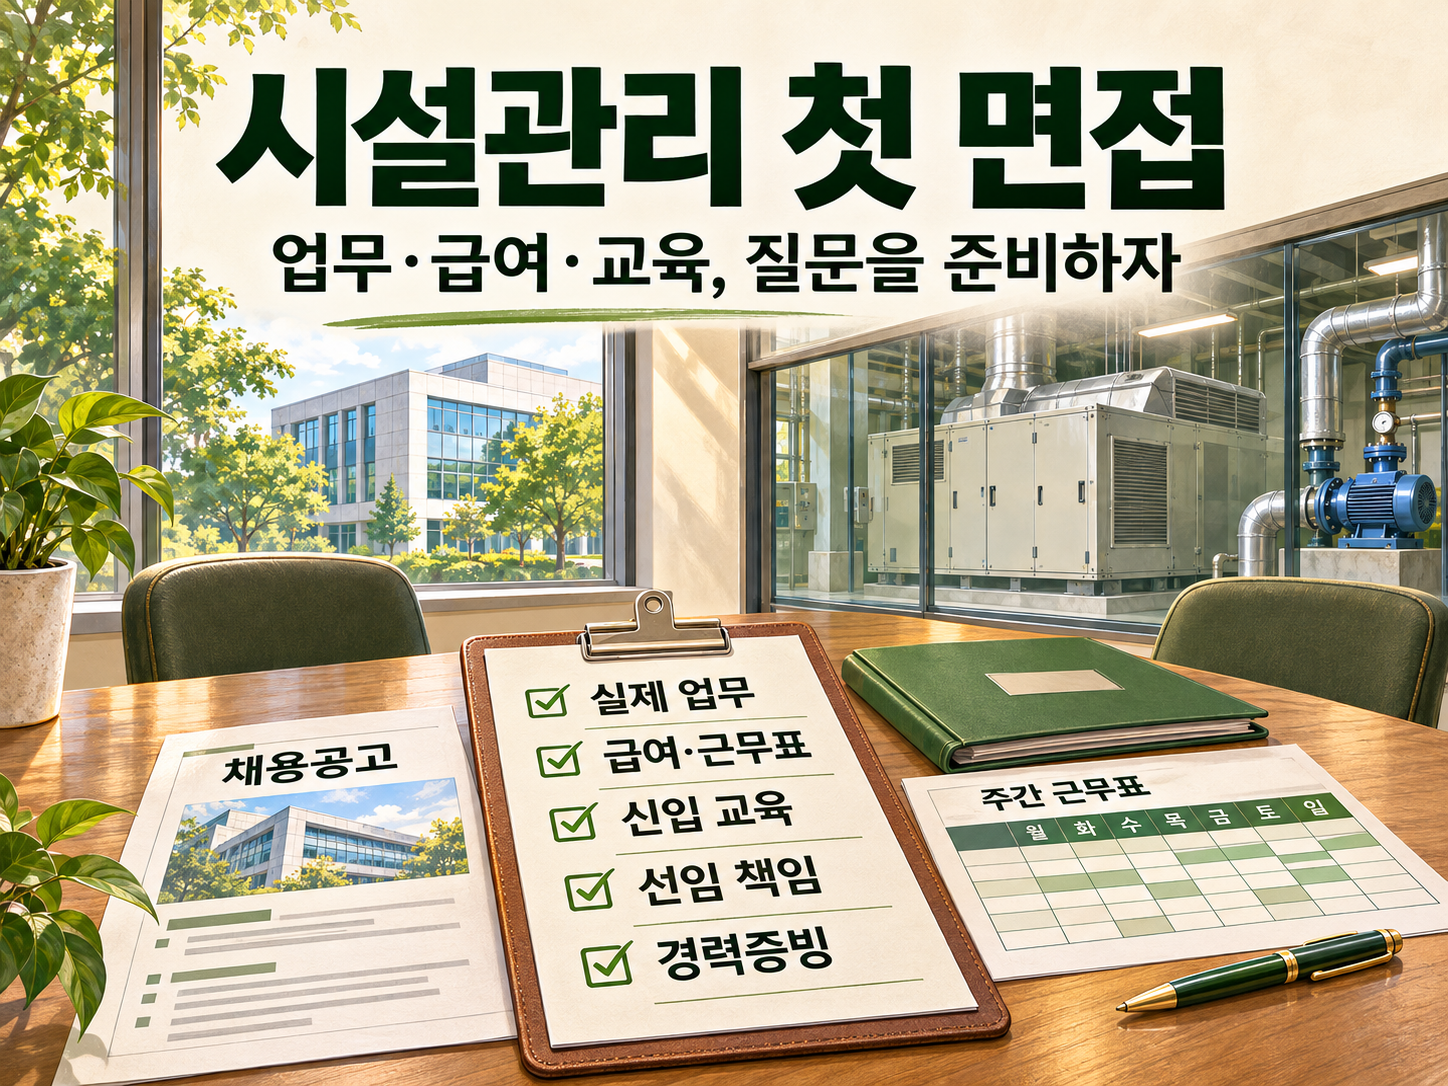
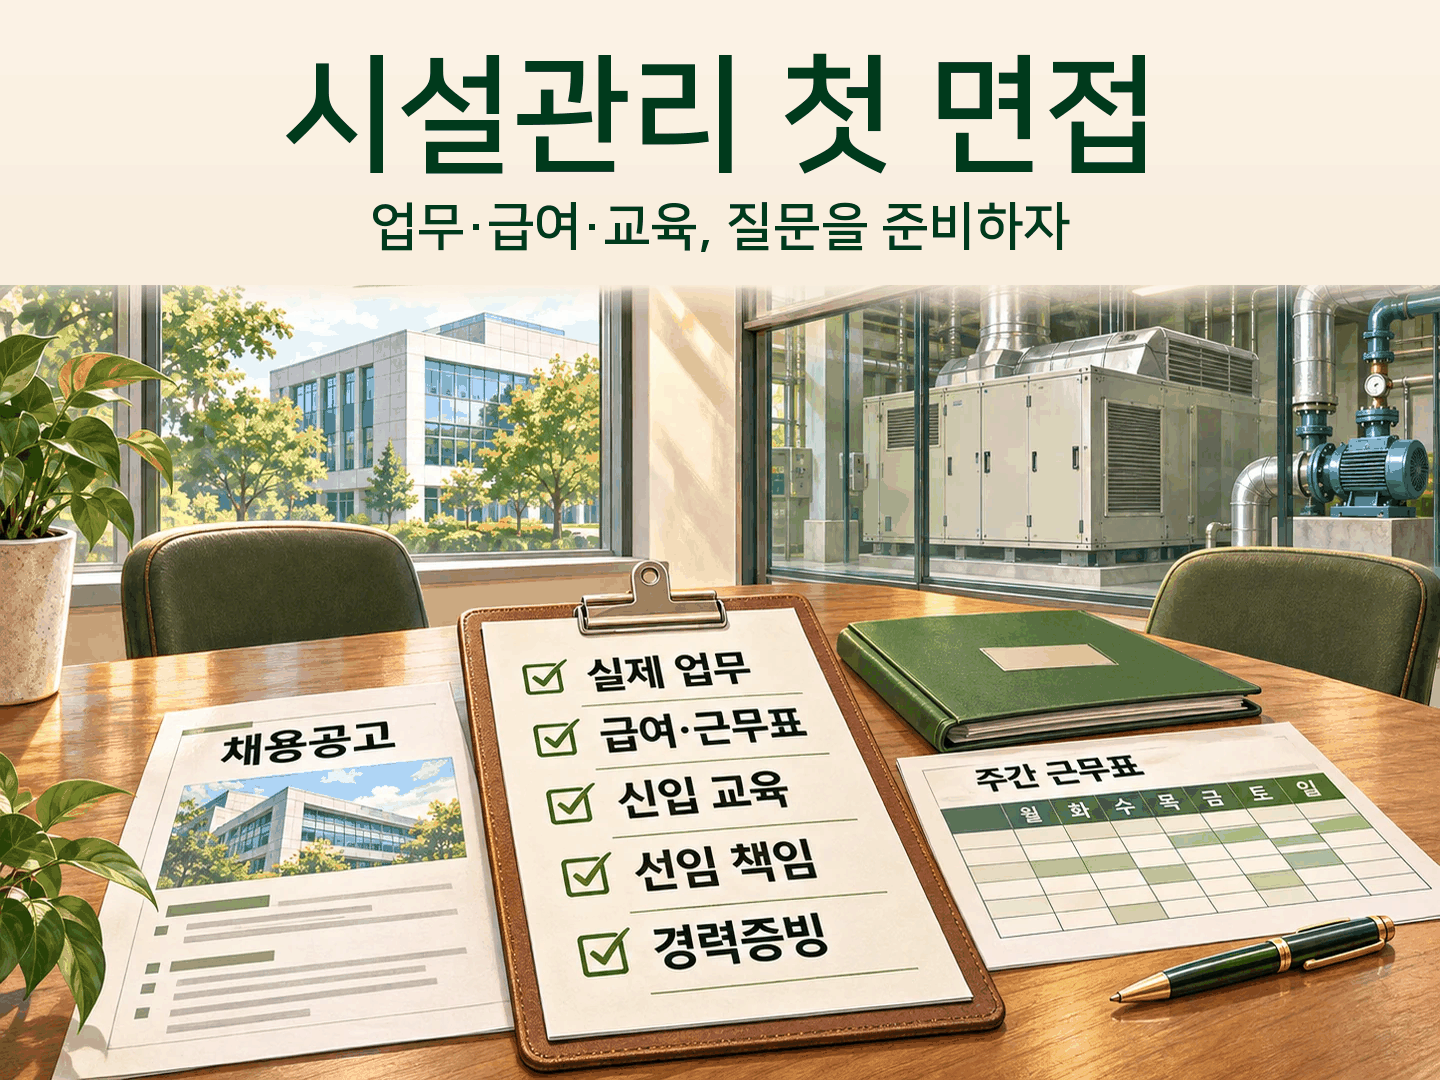
시설 대표 이미지 타이틀·부제 2차 통일 (#268)
* style(facility): normalize remaining hero title blocks

* fix(facility): keep public-sector hero in reviewed derivative inventory

diff --git a/docs/audits/2026-11-10-facility-hero-title-normalization-phase2/README.md b/docs/audits/2026-11-10-facility-hero-title-normalization-phase2/README.md
@@ -1,0 +1,44 @@
+# 시설 대표 이미지 타이틀·부제 정렬 2차 통일
+
+기준일: 2026-11-10
+
+## 목적
+
+1차에서 편차가 큰 6장을 정리한 뒤 남은 미세 조정 대상 02·04·05·07·09·12의 상단 타이포를 §5.13.11 정본에 맞춘다.
+
+## 대상
+
+- 02 `first-job`
+- 04 `shifts-and-pay`
+- 05 `public-sector-comparison`
+- 07 `postal-facilities`
+- 09 `kamcofmc`
+- 12 `mechanical-career-records`
+
+공개 URL·본문·alt·이미지 경로는 유지한다.
+
+## 적용 규격
+
+- 캔버스 1440×1080, 4:3
+- 타이틀 중앙 정렬, y≈50~178px
+- 부제 중앙 정렬, y≈197~257px
+- 타이틀 → 부제 2단계 정보 위계
+- 캡슐형 부제·세 번째 설명문·장식형 구분선 제거
+- 아이보리/크림 상단 배경, 외곽 프레임 없음
+- 기존 건물·설비·서류·체크리스트 등 본문 시각 요소는 유지
+
+## 파일 처리
+
+02·04·07·09·12는 기존 bulk hero 공개 WebP와 PNG 검수 마스터를 교체한다.
+05 공공부문 대표 이미지는 2026-11-05 역사 manifest와 기존 v2 파생본을 보존하기 위해 새 `facility-asset-edits/05/01-public-sector-hero-v3.webp` 및 별도 master를 override로 추가한다.
+
+PNG 검수 마스터는 공개 WebP와 동일한 1440×1080 화면을 확인하기 위한 무손실 indexed PNG로 저장한다.
+
+## 검증
+
+1. 새 WebP/PNG SHA-256과 manifest 일치
+2. 6장 모두 1440×1080
+3. 기존 역사 공공부문 파생본 보존
+4. bulk visual / pictogram / card-spacing 보호 검사
+5. Facility publication QA / SEO
+6. PR diff에서 승인 대상 외 제품 이미지 변경 없음
